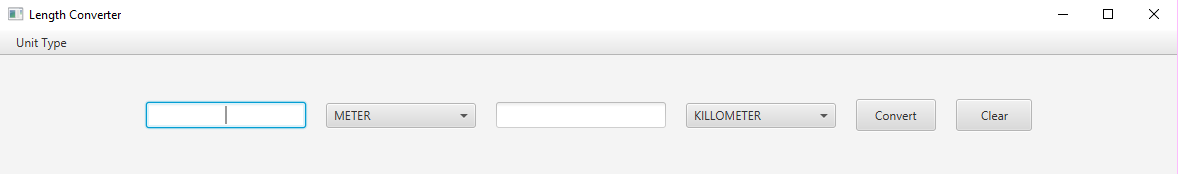
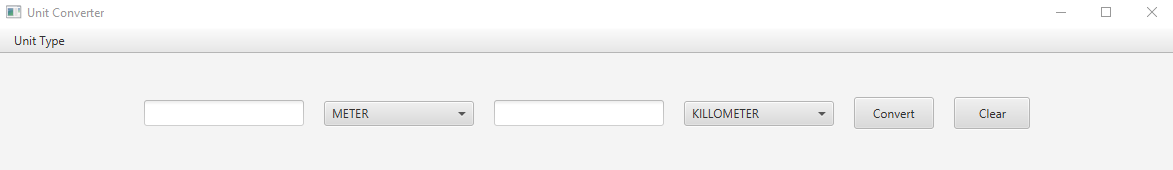
edit title name and add new previewi image

diff --git a/src/converter/Main.java b/src/converter/Main.java
@@ -22,7 +22,7 @@ public class Main extends Application {
 	
 			Parent root = (Parent)FXMLLoader.load(getClass().getResource("ConverterUI.fxml"));
 			Scene scene = new Scene(root);
-			primaryStage.setTitle("Length Converter");
+			primaryStage.setTitle("Unit Converter");
 			primaryStage.setScene(scene);
 			primaryStage.sizeToScene();
 			primaryStage.show();
